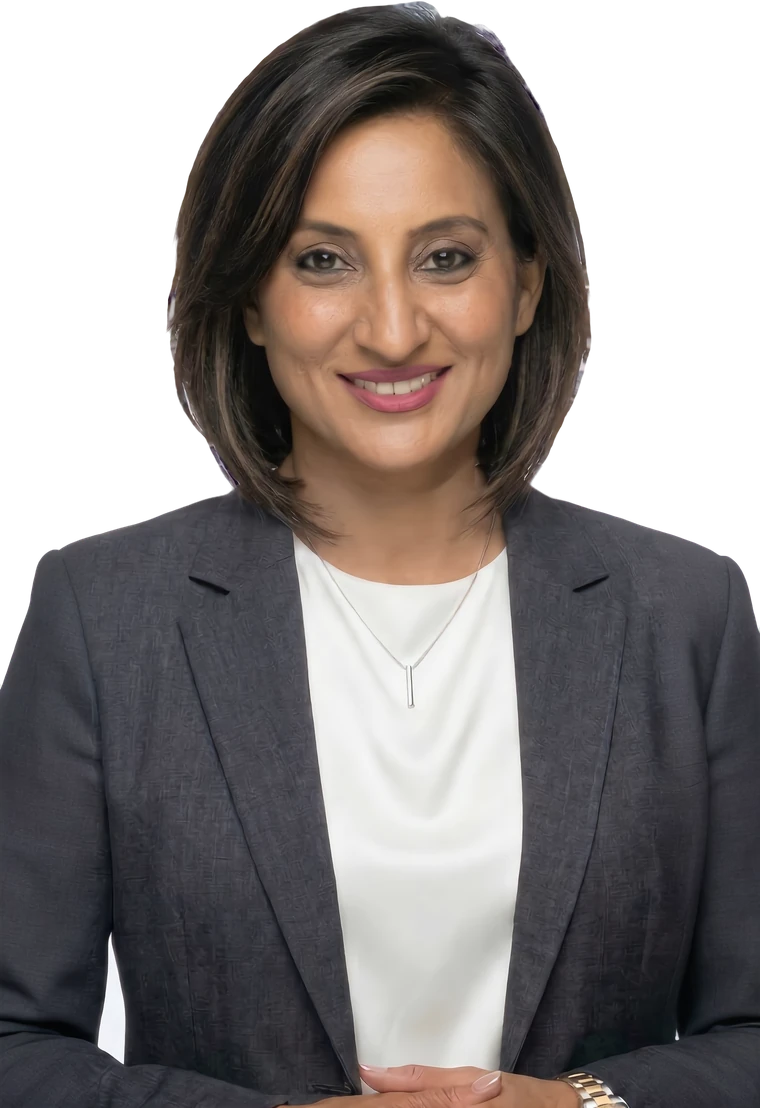
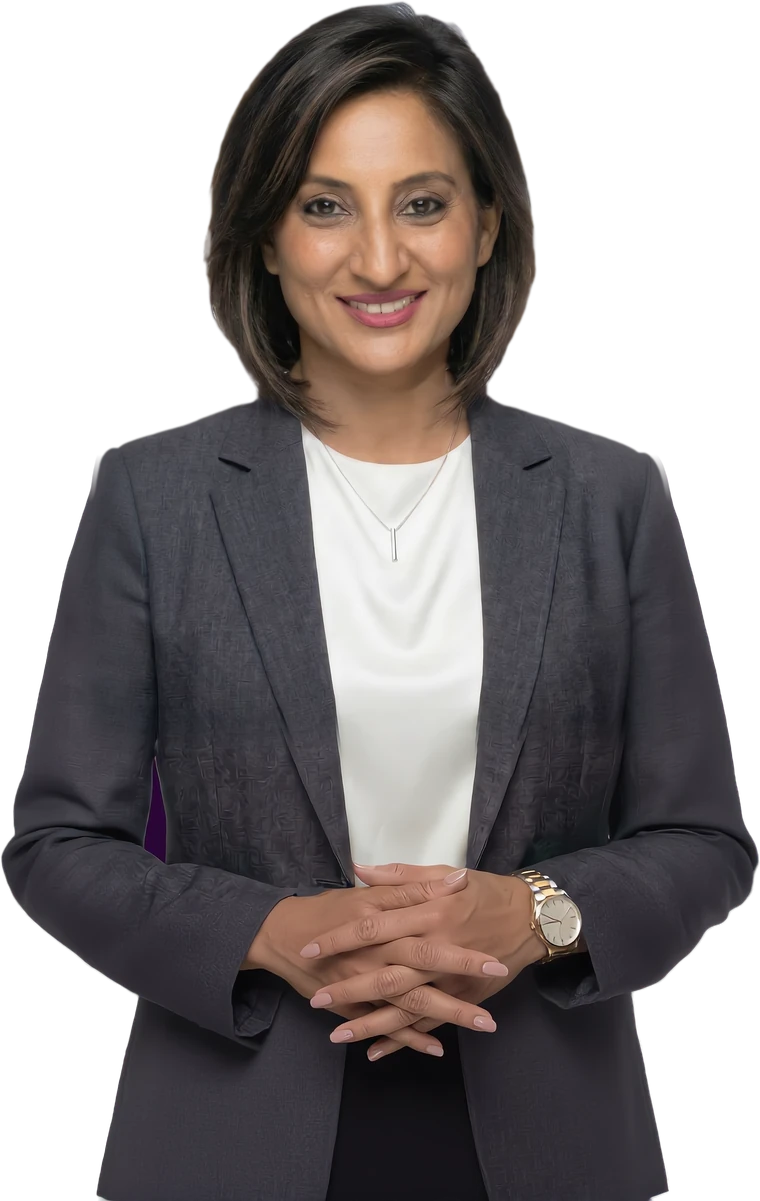
Hero: show Rishi's full clasped hands
Claude-Session: https://claude.ai/code/session_01GP5n9x6Tz3VvNfN4938gB4

diff --git a/index.html b/index.html
@@ -13,7 +13,7 @@
 <link rel="preconnect" href="https://fonts.googleapis.com">
 <link rel="preconnect" href="https://fonts.gstatic.com" crossorigin>
 <link href="https://fonts.googleapis.com/css2?family=Playfair+Display:ital,wght@0,500;0,600;0,700;1,500&family=Jost:wght@400;500;600&family=Great+Vibes&display=swap" rel="stylesheet">
-<link rel="stylesheet" href="assets/styles.css?v=4">
+<link rel="stylesheet" href="assets/styles.css?v=5">
 <script>try{if(sessionStorage.getItem("rishya-intro")||matchMedia("(prefers-reduced-motion: reduce)").matches)document.documentElement.classList.add("no-intro");else document.documentElement.classList.add("intro-on")}catch(e){document.documentElement.classList.add("no-intro")}</script>
 <script type="application/ld+json">{"@context": "https://schema.org", "@type": "HealthAndBeautyBusiness", "name": "Rishya Beauty Lounge", "alternateName": "Looks Beauty Salon", "url": "https://looksbeautysalon.ca/", "telephone": "+17783927296", "email": "looksbeautysalon.ca@gmail.com", "image": "https://looksbeautysalon.ca/assets/img/logo.png", "priceRange": "$$", "address": {"@type": "PostalAddress", "streetAddress": "58 Saddlecreek Crescent NE", "addressLocality": "Calgary", "addressRegion": "AB", "postalCode": "T3J 4R9", "addressCountry": "CA"}, "openingHoursSpecification": [{"@type": "OpeningHoursSpecification", "dayOfWeek": ["Monday", "Tuesday", "Wednesday", "Thursday", "Friday"], "opens": "09:00", "closes": "18:00"}, {"@type": "OpeningHoursSpecification", "dayOfWeek": "Saturday", "opens": "11:00", "closes": "17:00"}], "areaServed": ["Calgary", "Airdrie", "Balzac", "Chestermere"], "sameAs": ["https://www.instagram.com/looksbeautysalon.ca/"]}</script>
 </head>
@@ -56,7 +56,7 @@
 </div>
     </div>
     <div class="hero-right">
-      <figure class="cutout"><span class="halo" aria-hidden="true"></span><img src="assets/img/rishi-blazer-cutout.webp?v=1" alt="Your therapist at Rishya Beauty Lounge" width="760" height="1108" fetchpriority="high"></figure>
+      <figure class="cutout"><span class="halo" aria-hidden="true"></span><img src="assets/img/rishi-blazer-cutout.webp?v=2" alt="Your therapist at Rishya Beauty Lounge" width="760" height="1201" fetchpriority="high"></figure>
     </div>
   </div>
 </section>

diff --git a/404.html b/404.html
@@ -15,7 +15,7 @@
 <link rel="preconnect" href="https://fonts.googleapis.com">
 <link rel="preconnect" href="https://fonts.gstatic.com" crossorigin>
 <link href="https://fonts.googleapis.com/css2?family=Playfair+Display:ital,wght@0,500;0,600;0,700;1,500&family=Jost:wght@400;500;600&family=Great+Vibes&display=swap" rel="stylesheet">
-<link rel="stylesheet" href="assets/styles.css?v=4">
+<link rel="stylesheet" href="assets/styles.css?v=5">
 <script>try{if(sessionStorage.getItem("rishya-intro")||matchMedia("(prefers-reduced-motion: reduce)").matches)document.documentElement.classList.add("no-intro");else document.documentElement.classList.add("intro-on")}catch(e){document.documentElement.classList.add("no-intro")}</script>
 <script type="application/ld+json">{"@context": "https://schema.org", "@type": "HealthAndBeautyBusiness", "name": "Rishya Beauty Lounge", "alternateName": "Looks Beauty Salon", "url": "https://looksbeautysalon.ca/", "telephone": "+17783927296", "email": "looksbeautysalon.ca@gmail.com", "image": "https://looksbeautysalon.ca/assets/img/logo.png", "priceRange": "$$", "address": {"@type": "PostalAddress", "streetAddress": "58 Saddlecreek Crescent NE", "addressLocality": "Calgary", "addressRegion": "AB", "postalCode": "T3J 4R9", "addressCountry": "CA"}, "openingHoursSpecification": [{"@type": "OpeningHoursSpecification", "dayOfWeek": ["Monday", "Tuesday", "Wednesday", "Thursday", "Friday"], "opens": "09:00", "closes": "18:00"}, {"@type": "OpeningHoursSpecification", "dayOfWeek": "Saturday", "opens": "11:00", "closes": "17:00"}], "areaServed": ["Calgary", "Airdrie", "Balzac", "Chestermere"], "sameAs": ["https://www.instagram.com/looksbeautysalon.ca/"]}</script>
 </head>

diff --git a/beauty.html b/beauty.html
@@ -13,7 +13,7 @@
 <link rel="preconnect" href="https://fonts.googleapis.com">
 <link rel="preconnect" href="https://fonts.gstatic.com" crossorigin>
 <link href="https://fonts.googleapis.com/css2?family=Playfair+Display:ital,wght@0,500;0,600;0,700;1,500&family=Jost:wght@400;500;600&family=Great+Vibes&display=swap" rel="stylesheet">
-<link rel="stylesheet" href="assets/styles.css?v=4">
+<link rel="stylesheet" href="assets/styles.css?v=5">
 <script>try{if(sessionStorage.getItem("rishya-intro")||matchMedia("(prefers-reduced-motion: reduce)").matches)document.documentElement.classList.add("no-intro");else document.documentElement.classList.add("intro-on")}catch(e){document.documentElement.classList.add("no-intro")}</script>
 <script type="application/ld+json">{"@context": "https://schema.org", "@type": "HealthAndBeautyBusiness", "name": "Rishya Beauty Lounge", "alternateName": "Looks Beauty Salon", "url": "https://looksbeautysalon.ca/", "telephone": "+17783927296", "email": "looksbeautysalon.ca@gmail.com", "image": "https://looksbeautysalon.ca/assets/img/logo.png", "priceRange": "$$", "address": {"@type": "PostalAddress", "streetAddress": "58 Saddlecreek Crescent NE", "addressLocality": "Calgary", "addressRegion": "AB", "postalCode": "T3J 4R9", "addressCountry": "CA"}, "openingHoursSpecification": [{"@type": "OpeningHoursSpecification", "dayOfWeek": ["Monday", "Tuesday", "Wednesday", "Thursday", "Friday"], "opens": "09:00", "closes": "18:00"}, {"@type": "OpeningHoursSpecification", "dayOfWeek": "Saturday", "opens": "11:00", "closes": "17:00"}], "areaServed": ["Calgary", "Airdrie", "Balzac", "Chestermere"], "sameAs": ["https://www.instagram.com/looksbeautysalon.ca/"]}</script>
 </head>

diff --git a/contact.html b/contact.html
@@ -13,7 +13,7 @@
 <link rel="preconnect" href="https://fonts.googleapis.com">
 <link rel="preconnect" href="https://fonts.gstatic.com" crossorigin>
 <link href="https://fonts.googleapis.com/css2?family=Playfair+Display:ital,wght@0,500;0,600;0,700;1,500&family=Jost:wght@400;500;600&family=Great+Vibes&display=swap" rel="stylesheet">
-<link rel="stylesheet" href="assets/styles.css?v=4">
+<link rel="stylesheet" href="assets/styles.css?v=5">
 <script>try{if(sessionStorage.getItem("rishya-intro")||matchMedia("(prefers-reduced-motion: reduce)").matches)document.documentElement.classList.add("no-intro");else document.documentElement.classList.add("intro-on")}catch(e){document.documentElement.classList.add("no-intro")}</script>
 <script type="application/ld+json">{"@context": "https://schema.org", "@type": "HealthAndBeautyBusiness", "name": "Rishya Beauty Lounge", "alternateName": "Looks Beauty Salon", "url": "https://looksbeautysalon.ca/", "telephone": "+17783927296", "email": "looksbeautysalon.ca@gmail.com", "image": "https://looksbeautysalon.ca/assets/img/logo.png", "priceRange": "$$", "address": {"@type": "PostalAddress", "streetAddress": "58 Saddlecreek Crescent NE", "addressLocality": "Calgary", "addressRegion": "AB", "postalCode": "T3J 4R9", "addressCountry": "CA"}, "openingHoursSpecification": [{"@type": "OpeningHoursSpecification", "dayOfWeek": ["Monday", "Tuesday", "Wednesday", "Thursday", "Friday"], "opens": "09:00", "closes": "18:00"}, {"@type": "OpeningHoursSpecification", "dayOfWeek": "Saturday", "opens": "11:00", "closes": "17:00"}], "areaServed": ["Calgary", "Airdrie", "Balzac", "Chestermere"], "sameAs": ["https://www.instagram.com/looksbeautysalon.ca/"]}</script>
 </head>

diff --git a/massage.html b/massage.html
@@ -13,7 +13,7 @@
 <link rel="preconnect" href="https://fonts.googleapis.com">
 <link rel="preconnect" href="https://fonts.gstatic.com" crossorigin>
 <link href="https://fonts.googleapis.com/css2?family=Playfair+Display:ital,wght@0,500;0,600;0,700;1,500&family=Jost:wght@400;500;600&family=Great+Vibes&display=swap" rel="stylesheet">
-<link rel="stylesheet" href="assets/styles.css?v=4">
+<link rel="stylesheet" href="assets/styles.css?v=5">
 <script>try{if(sessionStorage.getItem("rishya-intro")||matchMedia("(prefers-reduced-motion: reduce)").matches)document.documentElement.classList.add("no-intro");else document.documentElement.classList.add("intro-on")}catch(e){document.documentElement.classList.add("no-intro")}</script>
 <script type="application/ld+json">{"@context": "https://schema.org", "@type": "HealthAndBeautyBusiness", "name": "Rishya Beauty Lounge", "alternateName": "Looks Beauty Salon", "url": "https://looksbeautysalon.ca/", "telephone": "+17783927296", "email": "looksbeautysalon.ca@gmail.com", "image": "https://looksbeautysalon.ca/assets/img/logo.png", "priceRange": "$$", "address": {"@type": "PostalAddress", "streetAddress": "58 Saddlecreek Crescent NE", "addressLocality": "Calgary", "addressRegion": "AB", "postalCode": "T3J 4R9", "addressCountry": "CA"}, "openingHoursSpecification": [{"@type": "OpeningHoursSpecification", "dayOfWeek": ["Monday", "Tuesday", "Wednesday", "Thursday", "Friday"], "opens": "09:00", "closes": "18:00"}, {"@type": "OpeningHoursSpecification", "dayOfWeek": "Saturday", "opens": "11:00", "closes": "17:00"}], "areaServed": ["Calgary", "Airdrie", "Balzac", "Chestermere"], "sameAs": ["https://www.instagram.com/looksbeautysalon.ca/"]}</script>
 </head>

diff --git a/assets/styles.css b/assets/styles.css
@@ -455,5 +455,3 @@ body.chat-open .chat-fab{display:none}
 @keyframes err-breathe{50%{box-shadow:0 0 0 10px rgba(232,204,134,.08),0 0 40px rgba(232,204,134,.25)}}
 @media (prefers-reduced-motion:reduce){.err-code span{animation:none}}
 
-/* blazer portrait: soften the straight shoulder edges of the photo */
-.cutout img{-webkit-mask-image:linear-gradient(to right,transparent 0,#000 9%,#000 91%,transparent 100%);mask-image:linear-gradient(to right,transparent 0,#000 9%,#000 91%,transparent 100%)}
